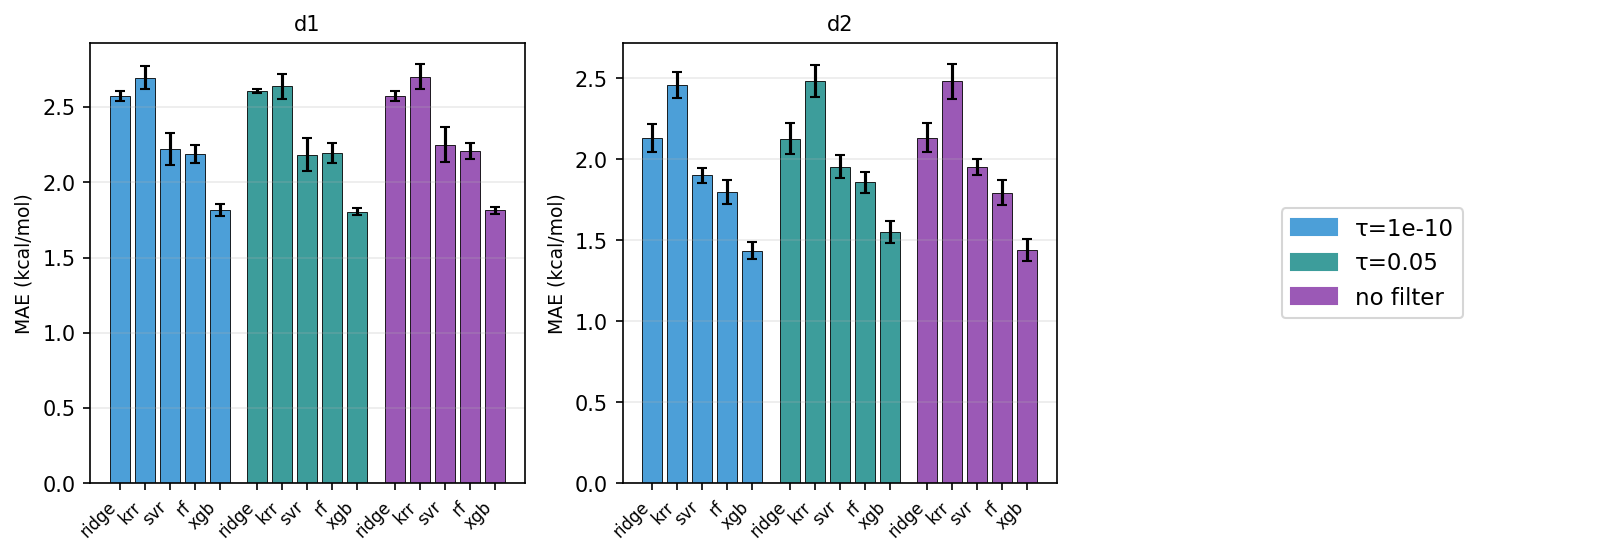
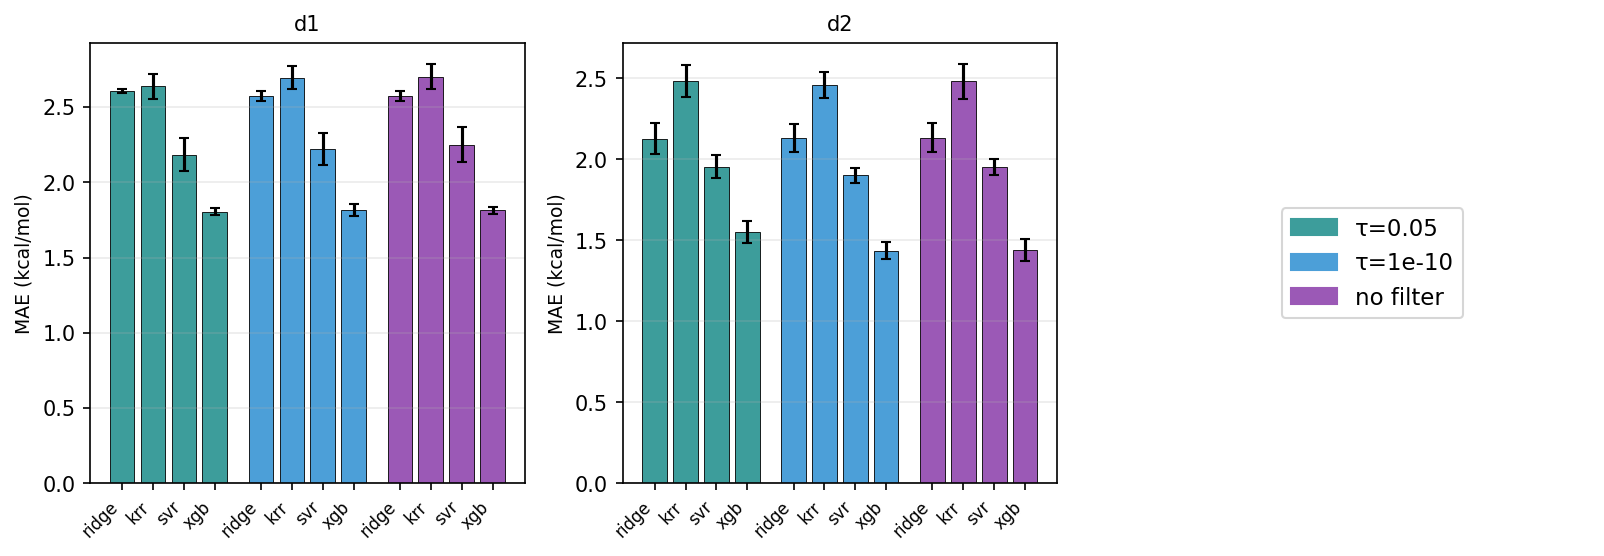
comparison_v3: drop rf, rename P3 in P1/P3/P4, reorder P2/P3/P5
- Drop 'rf' bars from all figures (MODEL_ORDER trims rf).
- P1/P3/P4 figures: relabel Phase 3 legend as 'ours' (was 'τ=0.05')
  so filtering hyperparameter isn't emphasized in the paper-vs-us view.
- P2/P3/P5 figures: reorder bars per subplot as τ=0.05 → τ=1e-10 → no filter
  (was 1e-10 → 0.05 → no filter). Highlights the chosen filter first.

Legend order now respects the caller-provided phase_filter list rather
than PHASE_COLORS iteration order.

diff --git a/analysis/bath1480_probe/experiments/scripts/08_aggregate_v3.py b/analysis/bath1480_probe/experiments/scripts/08_aggregate_v3.py
@@ -40,7 +40,7 @@ PHASE_COLORS = {
     "Phase 4 (XGB+MACE)":         "#e07a5f",
     "Phase 5 (no filter)":        "#9b59b6",
 }
-MODEL_ORDER = ["ridge", "krr", "svr", "rf", "xgb"]
+MODEL_ORDER = ["ridge", "krr", "svr", "xgb"]  # rf removed per user request
 
 PHASE1_TARGETS = {
     "d1":          "distortion_energy_1_dft",
@@ -174,14 +174,18 @@ def build_records(p1, p2, p3, p5, p4, mad_lookup):
 
 def figure_grouped_bars(records, canonicals, metric_col, err_col, title, ylabel, out_path,
                           subplots=False, ncol=4, ymin=None,
-                          phase_filter=None, exclude=None):
+                          phase_filter=None, exclude=None, label_override=None):
     if phase_filter is not None:
         records = records[records["phase"].isin(phase_filter)].copy()
     if exclude:
         for ph, mo in exclude:
             records = records[~((records["phase"] == ph) & (records["model"] == mo))]
 
-    phases = [p for p in PHASE_COLORS.keys() if phase_filter is None or p in phase_filter]
+    # Preserve caller-provided order when phase_filter is a list
+    if phase_filter is not None:
+        phases = list(phase_filter)
+    else:
+        phases = list(PHASE_COLORS.keys())
 
     if subplots:
         n = len(canonicals)
@@ -226,7 +230,11 @@ def figure_grouped_bars(records, canonicals, metric_col, err_col, title, ylabel,
         legend_ax = axes_flat[len(canonicals)]
         legend_ax.axis("off")
         handles = [plt.Rectangle((0,0), 1, 1, color=PHASE_COLORS[p]) for p in phases]
-        legend_labels = [re.sub(r"^Phase \d+ \((.*)\)$", r"\1", p) for p in phases]
+        def _label(p):
+            if label_override and p in label_override:
+                return label_override[p]
+            return re.sub(r"^Phase \d+ \((.*)\)$", r"\1", p)
+        legend_labels = [_label(p) for p in phases]
         legend_ax.legend(handles, legend_labels, loc="center", frameon=True, fontsize=11)
         for k in range(len(canonicals)+1, len(axes_flat)):
             axes_flat[k].axis("off")
@@ -294,9 +302,12 @@ def main():
 
     filter_A = ["Phase 1 (paper)", "Phase 3 (τ=0.05)", "Phase 4 (XGB+MACE)"]
     exclude_A = [("Phase 3 (τ=0.05)", "xgb")]
-    filter_B = ["Phase 2 (τ=1e-10)", "Phase 3 (τ=0.05)", "Phase 5 (no filter)"]
+    # P1/P3/P4: don't emphasize τ — relabel Phase 3 as "ours"
+    label_override_A = {"Phase 3 (τ=0.05)": "ours"}
+    # P2/P3/P5: reorder τ=0.05 first, then τ=1e-10, then no filter
+    filter_B = ["Phase 3 (τ=0.05)", "Phase 2 (τ=1e-10)", "Phase 5 (no filter)"]
 
-    def render_set(suffix, phase_filter, exclude=None):
+    def render_set(suffix, phase_filter, exclude=None, label_override=None):
         for target_list, ncol, name_prefix, ylabel_mae, ylabel_nmae, ylabel_r2 in [
             (d12, 3, "F1_MAE_d12", "MAE (kcal/mol)", "NMAE (÷meanAD)", "R²"),
             (other, 4, "F2_MAE_other", "MAE (kcal/mol)", "NMAE (÷meanAD)", "R²"),
@@ -306,7 +317,8 @@ def main():
                 ylabel_mae,
                 COMP / f"{name_prefix}_{suffix}.png",
                 subplots=True, ncol=ncol, ymin=0,
-                phase_filter=phase_filter, exclude=exclude)
+                phase_filter=phase_filter, exclude=exclude,
+                label_override=label_override)
         for target_list, ncol, name_prefix in [
             (d12, 3, "F3_NMAE_d12"),
             (other, 4, "F4_NMAE_other"),
@@ -316,7 +328,8 @@ def main():
                 "NMAE = MAE / meanAD",
                 COMP / f"{name_prefix}_{suffix}.png",
                 subplots=True, ncol=ncol, ymin=0,
-                phase_filter=phase_filter, exclude=exclude)
+                phase_filter=phase_filter, exclude=exclude,
+                label_override=label_override)
 
     only = os.environ.get("RENDER_ONLY", "").strip()
     if not only or only == "all":
@@ -324,7 +337,7 @@ def main():
     else:
         render_sets = [s.strip() for s in only.split(",")]
     if "P1_P3_P4" in render_sets:
-        render_set("P1_P3_P4", filter_A, exclude_A)
+        render_set("P1_P3_P4", filter_A, exclude_A, label_override_A)
     if "P2_P3_P5" in render_sets:
         render_set("P2_P3_P5", filter_B, None)
 

diff --git a/analysis/bath1480_probe/experiments/results/comparison_v3/REPORT.md b/analysis/bath1480_probe/experiments/results/comparison_v3/REPORT.md
@@ -26,21 +26,17 @@ Dataset: bath_1480, 3504 rxns
 | Phase 1 (paper) | ridge | 3.313 ± 0.222 | 0.592 |
 | Phase 1 (paper) | krr | 2.986 ± 0.122 | 0.533 |
 | Phase 1 (paper) | svr | 2.643 ± 0.150 | 0.472 |
-| Phase 1 (paper) | rf | 2.952 ± 0.123 | 0.527 |
 | Phase 2 (τ=1e-10) | ridge | 2.575 ± 0.033 | 0.335 |
 | Phase 2 (τ=1e-10) | krr | 2.696 ± 0.076 | 0.350 |
 | Phase 2 (τ=1e-10) | svr | 2.222 ± 0.108 | 0.289 |
-| Phase 2 (τ=1e-10) | rf | 2.190 ± 0.059 | 0.285 |
 | Phase 2 (τ=1e-10) | xgb | 1.817 ± 0.041 | 0.236 |
 | Phase 3 (τ=0.05) | ridge | 2.606 ± 0.014 | 0.339 |
 | Phase 3 (τ=0.05) | krr | 2.638 ± 0.085 | 0.343 |
 | Phase 3 (τ=0.05) | svr | 2.185 ± 0.107 | 0.284 |
-| Phase 3 (τ=0.05) | rf | 2.194 ± 0.068 | 0.285 |
 | Phase 3 (τ=0.05) | xgb | 1.806 ± 0.024 | 0.235 |
 | Phase 5 (no filter) | ridge | 2.576 ± 0.033 | 0.335 |
 | Phase 5 (no filter) | krr | 2.701 ± 0.083 | 0.351 |
 | Phase 5 (no filter) | svr | 2.249 ± 0.115 | 0.292 |
-| Phase 5 (no filter) | rf | 2.208 ± 0.055 | 0.287 |
 | Phase 5 (no filter) | xgb | 1.814 ± 0.023 | 0.236 |
 | Phase 4 (XGB+MACE) | XGB+MACE | 2.397 ± 0.103 | 0.311 |
 
@@ -51,21 +47,17 @@ Dataset: bath_1480, 3504 rxns
 | Phase 1 (paper) | ridge | 3.156 ± 0.131 | 0.611 |
 | Phase 1 (paper) | krr | 2.765 ± 0.155 | 0.535 |
 | Phase 1 (paper) | svr | 2.370 ± 0.125 | 0.459 |
-| Phase 1 (paper) | rf | 2.610 ± 0.113 | 0.505 |
 | Phase 2 (τ=1e-10) | ridge | 2.133 ± 0.088 | 0.321 |
 | Phase 2 (τ=1e-10) | krr | 2.460 ± 0.083 | 0.370 |
 | Phase 2 (τ=1e-10) | svr | 1.902 ± 0.046 | 0.286 |
-| Phase 2 (τ=1e-10) | rf | 1.799 ± 0.071 | 0.270 |
 | Phase 2 (τ=1e-10) | xgb | 1.437 ± 0.053 | 0.216 |
 | Phase 3 (τ=0.05) | ridge | 2.129 ± 0.098 | 0.320 |
 | Phase 3 (τ=0.05) | krr | 2.485 ± 0.097 | 0.373 |
 | Phase 3 (τ=0.05) | svr | 1.954 ± 0.071 | 0.294 |
-| Phase 3 (τ=0.05) | rf | 1.859 ± 0.064 | 0.279 |
 | Phase 3 (τ=0.05) | xgb | 1.553 ± 0.067 | 0.233 |
 | Phase 5 (no filter) | ridge | 2.135 ± 0.089 | 0.321 |
 | Phase 5 (no filter) | krr | 2.481 ± 0.106 | 0.373 |
 | Phase 5 (no filter) | svr | 1.954 ± 0.048 | 0.294 |
-| Phase 5 (no filter) | rf | 1.795 ± 0.079 | 0.270 |
 | Phase 5 (no filter) | xgb | 1.439 ± 0.068 | 0.216 |
 | Phase 4 (XGB+MACE) | XGB+MACE | 1.971 ± 0.035 | 0.296 |
 
@@ -76,17 +68,14 @@ Dataset: bath_1480, 3504 rxns
 | Phase 2 (τ=1e-10) | ridge | 7.463 ± 0.600 | 0.378 |
 | Phase 2 (τ=1e-10) | krr | 10.021 ± 0.656 | 0.507 |
 | Phase 2 (τ=1e-10) | svr | 5.909 ± 0.222 | 0.299 |
-| Phase 2 (τ=1e-10) | rf | 8.752 ± 0.208 | 0.443 |
 | Phase 2 (τ=1e-10) | xgb | 5.461 ± 0.176 | 0.276 |
 | Phase 3 (τ=0.05) | ridge | 8.410 ± 0.467 | 0.425 |
 | Phase 3 (τ=0.05) | krr | 9.922 ± 0.715 | 0.502 |
 | Phase 3 (τ=0.05) | svr | 6.567 ± 0.292 | 0.332 |
-| Phase 3 (τ=0.05) | rf | 9.017 ± 0.251 | 0.456 |
 | Phase 3 (τ=0.05) | xgb | 6.074 ± 0.232 | 0.307 |
 | Phase 5 (no filter) | ridge | 7.465 ± 0.606 | 0.378 |
 | Phase 5 (no filter) | krr | 10.137 ± 0.734 | 0.513 |
 | Phase 5 (no filter) | svr | 6.074 ± 0.257 | 0.307 |
-| Phase 5 (no filter) | rf | 8.742 ± 0.206 | 0.442 |
 | Phase 5 (no filter) | xgb | 5.566 ± 0.174 | 0.282 |
 | Phase 4 (XGB+MACE) | XGB+MACE | 10.320 ± 0.555 | 0.522 |
 
@@ -97,17 +86,14 @@ Dataset: bath_1480, 3504 rxns
 | Phase 2 (τ=1e-10) | ridge | 3.996 ± 0.221 | 0.392 |
 | Phase 2 (τ=1e-10) | krr | 4.427 ± 0.287 | 0.434 |
 | Phase 2 (τ=1e-10) | svr | 3.102 ± 0.128 | 0.304 |
-| Phase 2 (τ=1e-10) | rf | 5.167 ± 0.189 | 0.507 |
 | Phase 2 (τ=1e-10) | xgb | 3.009 ± 0.059 | 0.295 |
 | Phase 3 (τ=0.05) | ridge | 4.244 ± 0.140 | 0.416 |
 | Phase 3 (τ=0.05) | krr | 4.425 ± 0.256 | 0.434 |
 | Phase 3 (τ=0.05) | svr | 3.249 ± 0.172 | 0.319 |
-| Phase 3 (τ=0.05) | rf | 5.152 ± 0.209 | 0.506 |
 | Phase 3 (τ=0.05) | xgb | 3.197 ± 0.144 | 0.314 |
 | Phase 5 (no filter) | ridge | 3.998 ± 0.223 | 0.392 |
 | Phase 5 (no filter) | krr | 4.486 ± 0.339 | 0.440 |
 | Phase 5 (no filter) | svr | 3.161 ± 0.155 | 0.310 |
-| Phase 5 (no filter) | rf | 5.156 ± 0.200 | 0.506 |
 | Phase 5 (no filter) | xgb | 3.012 ± 0.078 | 0.296 |
 | Phase 4 (XGB+MACE) | XGB+MACE | 5.219 ± 0.244 | 0.512 |
 
@@ -118,17 +104,14 @@ Dataset: bath_1480, 3504 rxns
 | Phase 2 (τ=1e-10) | ridge | 4.269 ± 0.216 | 0.423 |
 | Phase 2 (τ=1e-10) | krr | 5.173 ± 0.254 | 0.512 |
 | Phase 2 (τ=1e-10) | svr | 3.812 ± 0.199 | 0.378 |
-| Phase 2 (τ=1e-10) | rf | 5.348 ± 0.106 | 0.530 |
 | Phase 2 (τ=1e-10) | xgb | 3.763 ± 0.121 | 0.373 |
 | Phase 3 (τ=0.05) | ridge | 4.816 ± 0.159 | 0.477 |
 | Phase 3 (τ=0.05) | krr | 5.290 ± 0.323 | 0.524 |
 | Phase 3 (τ=0.05) | svr | 4.131 ± 0.229 | 0.409 |
-| Phase 3 (τ=0.05) | rf | 5.535 ± 0.147 | 0.548 |
 | Phase 3 (τ=0.05) | xgb | 3.986 ± 0.106 | 0.395 |
 | Phase 5 (no filter) | ridge | 4.269 ± 0.216 | 0.423 |
 | Phase 5 (no filter) | krr | 5.219 ± 0.246 | 0.517 |
 | Phase 5 (no filter) | svr | 3.853 ± 0.184 | 0.382 |
-| Phase 5 (no filter) | rf | 5.365 ± 0.084 | 0.531 |
 | Phase 5 (no filter) | xgb | 3.722 ± 0.124 | 0.369 |
 | Phase 4 (XGB+MACE) | XGB+MACE | 5.666 ± 0.284 | 0.561 |
 
@@ -139,17 +122,14 @@ Dataset: bath_1480, 3504 rxns
 | Phase 2 (τ=1e-10) | ridge | 1.348 ± 0.047 | 0.361 |
 | Phase 2 (τ=1e-10) | krr | 1.337 ± 0.051 | 0.358 |
 | Phase 2 (τ=1e-10) | svr | 1.022 ± 0.057 | 0.274 |
-| Phase 2 (τ=1e-10) | rf | 1.564 ± 0.057 | 0.419 |
 | Phase 2 (τ=1e-10) | xgb | 1.009 ± 0.049 | 0.270 |
 | Phase 3 (τ=0.05) | ridge | 1.446 ± 0.050 | 0.387 |
 | Phase 3 (τ=0.05) | krr | 1.479 ± 0.051 | 0.396 |
 | Phase 3 (τ=0.05) | svr | 1.197 ± 0.060 | 0.321 |
-| Phase 3 (τ=0.05) | rf | 1.600 ± 0.058 | 0.429 |
 | Phase 3 (τ=0.05) | xgb | 1.116 ± 0.025 | 0.299 |
 | Phase 5 (no filter) | ridge | 1.348 ± 0.048 | 0.361 |
 | Phase 5 (no filter) | krr | 1.354 ± 0.059 | 0.363 |
 | Phase 5 (no filter) | svr | 1.037 ± 0.060 | 0.278 |
-| Phase 5 (no filter) | rf | 1.579 ± 0.044 | 0.423 |
 | Phase 5 (no filter) | xgb | 1.010 ± 0.045 | 0.271 |
 | Phase 4 (XGB+MACE) | XGB+MACE | 1.526 ± 0.087 | 0.409 |
 
@@ -160,17 +140,14 @@ Dataset: bath_1480, 3504 rxns
 | Phase 2 (τ=1e-10) | ridge | 2.677 ± 0.155 | 0.538 |
 | Phase 2 (τ=1e-10) | krr | 2.784 ± 0.105 | 0.559 |
 | Phase 2 (τ=1e-10) | svr | 2.411 ± 0.093 | 0.484 |
-| Phase 2 (τ=1e-10) | rf | 3.067 ± 0.140 | 0.616 |
 | Phase 2 (τ=1e-10) | xgb | 2.391 ± 0.039 | 0.480 |
 | Phase 3 (τ=0.05) | ridge | 2.952 ± 0.159 | 0.593 |
 | Phase 3 (τ=0.05) | krr | 2.874 ± 0.106 | 0.577 |
 | Phase 3 (τ=0.05) | svr | 2.563 ± 0.056 | 0.515 |
-| Phase 3 (τ=0.05) | rf | 3.078 ± 0.135 | 0.618 |
 | Phase 3 (τ=0.05) | xgb | 2.441 ± 0.047 | 0.490 |
 | Phase 5 (no filter) | ridge | 2.677 ± 0.155 | 0.538 |
 | Phase 5 (no filter) | krr | 2.792 ± 0.096 | 0.561 |
 | Phase 5 (no filter) | svr | 2.418 ± 0.098 | 0.486 |
-| Phase 5 (no filter) | rf | 3.054 ± 0.139 | 0.613 |
 | Phase 5 (no filter) | xgb | 2.382 ± 0.060 | 0.479 |
 | Phase 4 (XGB+MACE) | XGB+MACE | 2.899 ± 0.089 | 0.582 |
 
@@ -181,17 +158,14 @@ Dataset: bath_1480, 3504 rxns
 | Phase 2 (τ=1e-10) | ridge | 0.409 ± 0.020 | 0.714 |
 | Phase 2 (τ=1e-10) | krr | 0.380 ± 0.017 | 0.664 |
 | Phase 2 (τ=1e-10) | svr | 0.338 ± 0.019 | 0.590 |
-| Phase 2 (τ=1e-10) | rf | 0.384 ± 0.016 | 0.670 |
 | Phase 2 (τ=1e-10) | xgb | 0.291 ± 0.017 | 0.509 |
 | Phase 3 (τ=0.05) | ridge | 0.423 ± 0.009 | 0.738 |
 | Phase 3 (τ=0.05) | krr | 0.410 ± 0.016 | 0.715 |
 | Phase 3 (τ=0.05) | svr | 0.369 ± 0.019 | 0.644 |
-| Phase 3 (τ=0.05) | rf | 0.401 ± 0.011 | 0.699 |
 | Phase 3 (τ=0.05) | xgb | 0.309 ± 0.012 | 0.538 |
 | Phase 5 (no filter) | ridge | 0.410 ± 0.020 | 0.715 |
 | Phase 5 (no filter) | krr | 0.383 ± 0.016 | 0.669 |
 | Phase 5 (no filter) | svr | 0.340 ± 0.018 | 0.593 |
-| Phase 5 (no filter) | rf | 0.384 ± 0.016 | 0.669 |
 | Phase 5 (no filter) | xgb | 0.294 ± 0.014 | 0.514 |
 | Phase 4 (XGB+MACE) | XGB+MACE | 0.446 ± 0.013 | 0.779 |
 
